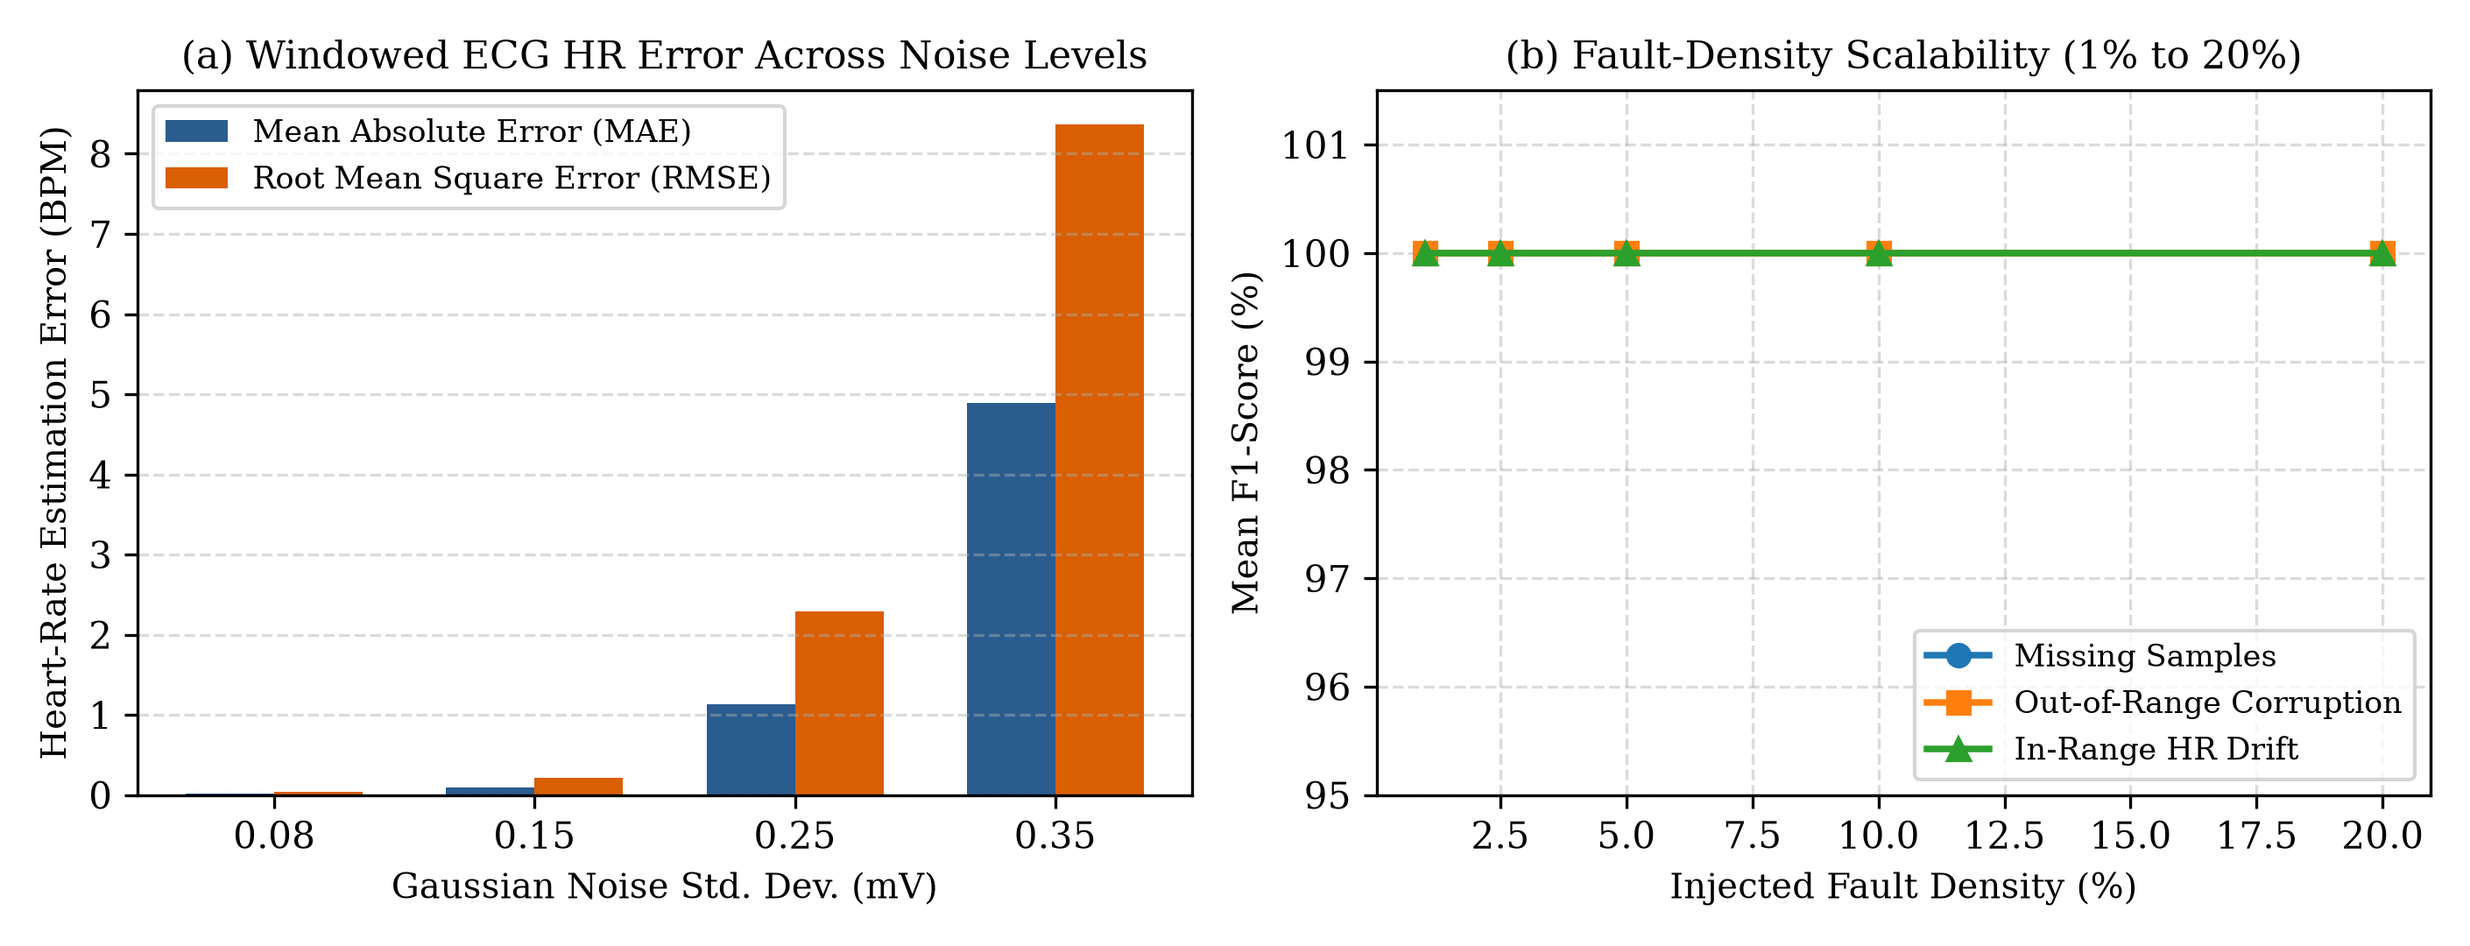
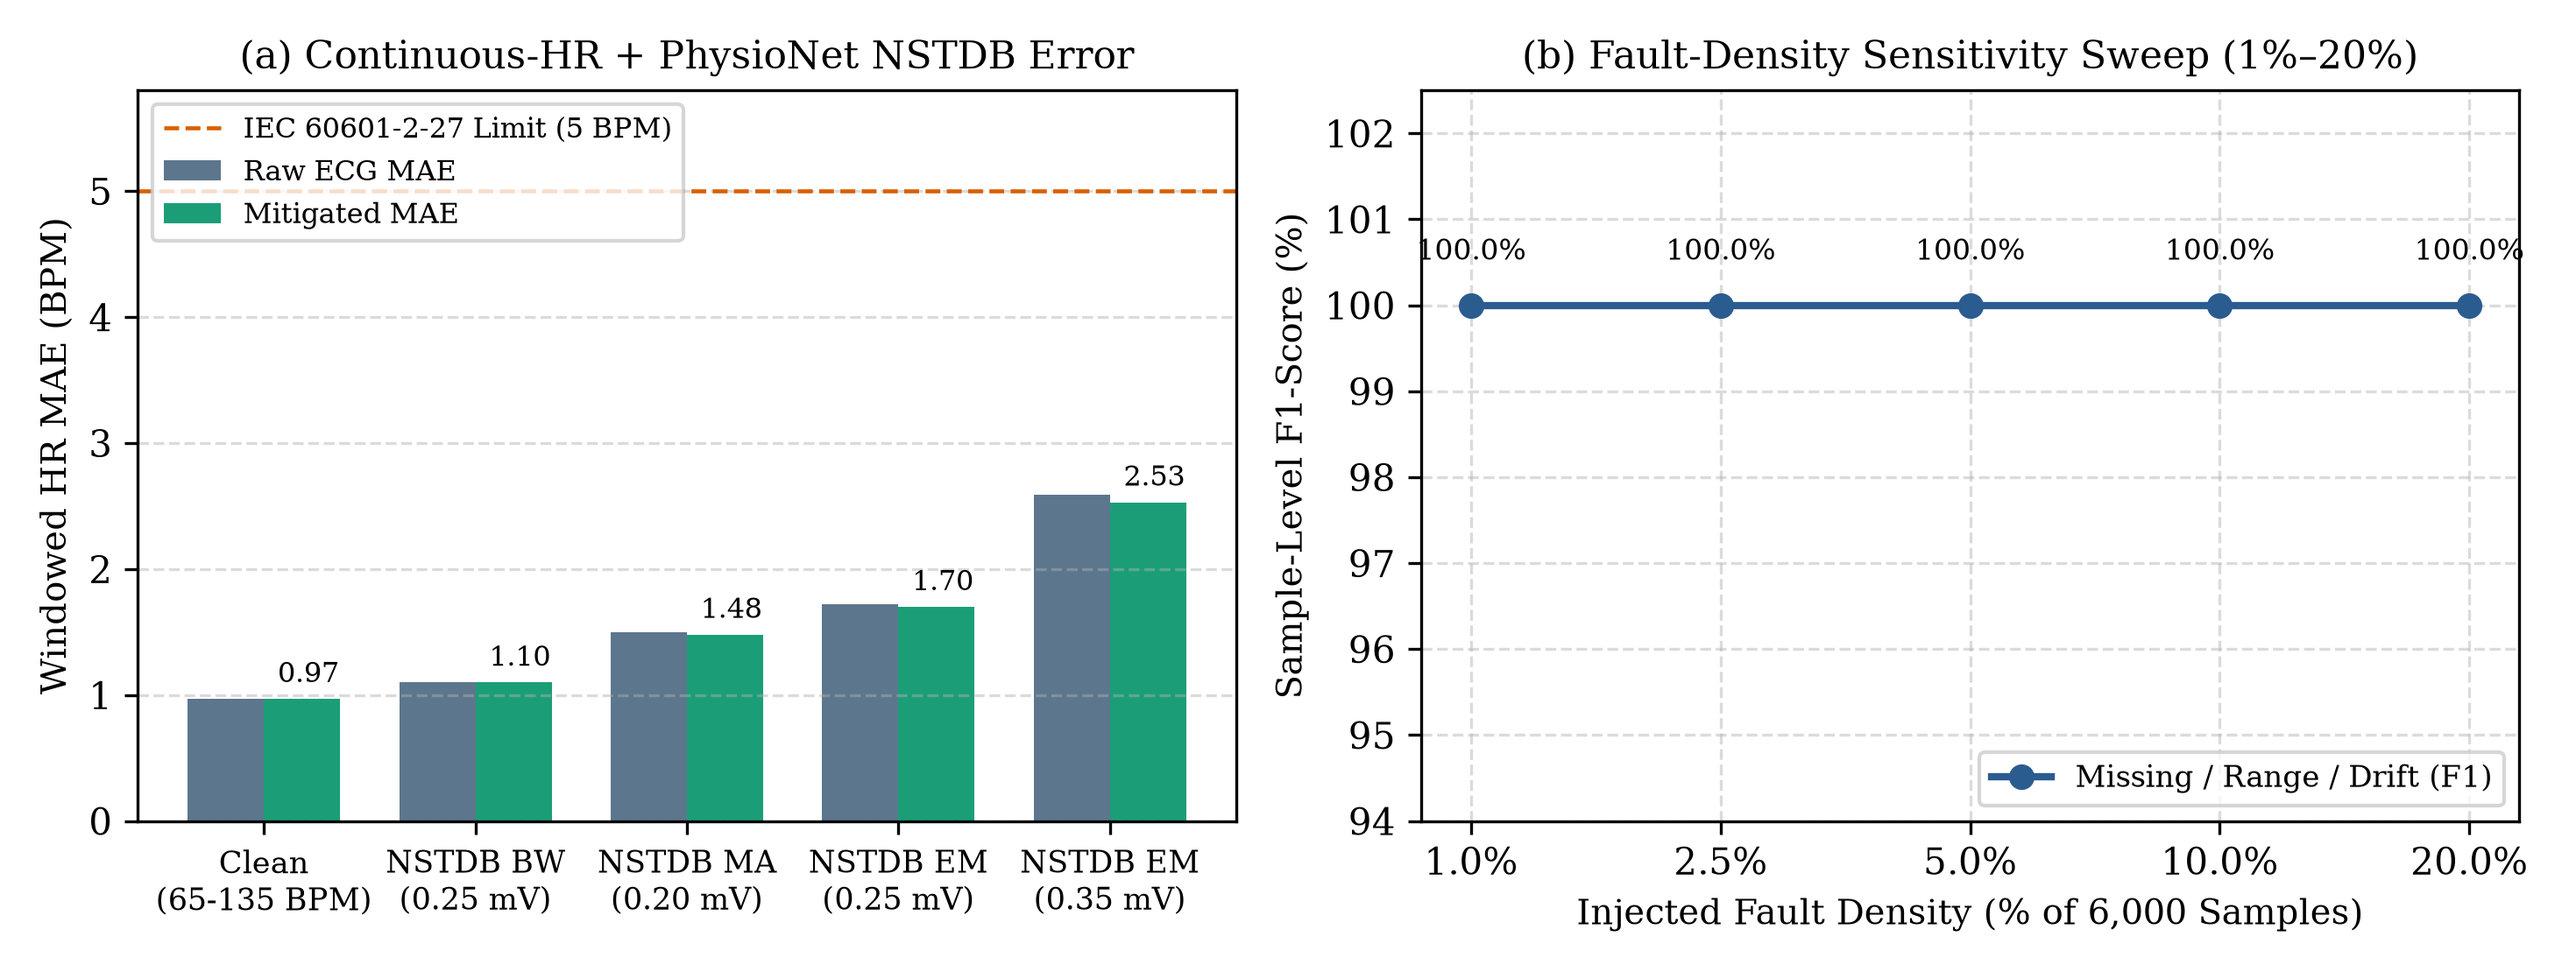
Update figures and Q1 validation results

diff --git a/analysis/generate_fig6_fig9.py b/analysis/generate_fig6_fig9.py
@@ -1,0 +1,105 @@
+import matplotlib.pyplot as plt
+import numpy as np
+
+plt.rcParams.update({
+    "font.family": "serif",
+    "font.size": 10,
+    "axes.titlesize": 10.5,
+    "axes.labelsize": 9.5,
+    "figure.dpi": 300
+})
+
+# ==============================================================================
+# FIGURE 6: (a) NSTDB Continuous-HR MAE (Table 7) & (b) 1%-20% Density Sweep (Table 10)
+# ==============================================================================
+fig, (ax1, ax2) = plt.subplots(1, 2, figsize=(9.8, 3.7))
+
+# Panel (a): Non-Circular Continuous-HR (65-135 BPM) + PhysioNet NSTDB MAE
+nstdb_labels = ["Clean\n(65-135 BPM)", "NSTDB BW\n(0.25 mV)", "NSTDB MA\n(0.20 mV)", "NSTDB EM\n(0.25 mV)", "NSTDB EM\n(0.35 mV)"]
+raw_mae_nstdb = [0.97, 1.10, 1.50, 1.72, 2.59]
+mit_mae_nstdb = [0.97, 1.10, 1.48, 1.70, 2.53]
+
+x1 = np.arange(len(nstdb_labels))
+w1 = 0.36
+ax1.bar(x1 - w1/2, raw_mae_nstdb, width=w1, color="#5c768d", label="Raw ECG MAE")
+ax1.bar(x1 + w1/2, mit_mae_nstdb, width=w1, color="#1b9e77", label="Mitigated MAE")
+for i, v in enumerate(mit_mae_nstdb):
+    ax1.text(i + w1/2 + 0.03, v + 0.08, f"{v:.2f}", ha="center", va="bottom", fontsize=7.6)
+
+ax1.axhline(5.0, color="#d95f02", linestyle="--", linewidth=1.1, label="IEC 60601-2-27 Limit (5 BPM)")
+ax1.set_xticks(x1)
+ax1.set_xticklabels(nstdb_labels, fontsize=8.3)
+ax1.set_ylim(0, 5.8)
+ax1.set_ylabel("Windowed HR MAE (BPM)")
+ax1.set_title("(a) Continuous-HR + PhysioNet NSTDB Error")
+ax1.grid(True, axis="y", linestyle="--", alpha=0.45)
+ax1.legend(loc="upper left", fontsize=7.8)
+
+# Panel (b): Fault-Density Sensitivity Sweep (1% to 20%)
+densities = ["1.0%", "2.5%", "5.0%", "10.0%", "20.0%"]
+f1_sweep = [100.0, 100.0, 100.0, 100.0, 100.0]
+ax2.plot(densities, f1_sweep, marker="o", linewidth=2.0, markersize=6, color="#2b5c8f", label="Missing / Range / Drift (F1)")
+for i, v in enumerate(f1_sweep):
+    ax2.text(i, v + 0.45, "100.0%", ha="center", va="bottom", fontsize=8.0)
+ax2.set_ylim(94.0, 102.5)
+ax2.set_xlabel("Injected Fault Density (% of 6,000 Samples)")
+ax2.set_ylabel("Sample-Level F1-Score (%)")
+ax2.set_title("(b) Fault-Density Sensitivity Sweep (1%–20%)")
+ax2.grid(True, linestyle="--", alpha=0.45)
+ax2.legend(loc="lower right", fontsize=8.2)
+
+plt.tight_layout()
+plt.savefig("results/fig6_hr_error_and_density.png", dpi=300)
+plt.close()
+
+# ==============================================================================
+# FIGURE 9: (a) 4 Clinical Scenarios (Table 11) & (b) 10-Patient Ablation (Table 12)
+# ==============================================================================
+fig, (ax1, ax2) = plt.subplots(1, 2, figsize=(10.2, 3.8))
+
+# Panel (a): Scenario-Level Raw vs. Mitigated MAE
+scen_names = ["Clean\nBaseline", "Burst +\nStale", "Noise (0.2mV)\n+ Drift", "Triple\nCompound"]
+raw_scen = [2.074, 2.765, 6.282, 4.613]
+mit_scen = [1.845, 2.220, 2.087, 4.400]
+
+x_s = np.arange(len(scen_names))
+w_s = 0.35
+ax1.bar(x_s - w_s/2, raw_scen, width=w_s, color="#d95f02", label="Raw ECG MAE")
+ax1.bar(x_s + w_s/2, mit_scen, width=w_s, color="#1b9e77", label="Mitigated MAE")
+for i, (r, m) in enumerate(zip(raw_scen, mit_scen)):
+    ax1.text(i - w_s/2, r + 0.14, f"{r:.2f}", ha="center", va="bottom", fontsize=7.4)
+    ax1.text(i + w_s/2 + 0.03, m + 0.14, f"{m:.2f}", ha="center", va="bottom", fontsize=7.4)
+
+ax1.set_xticks(x_s)
+ax1.set_xticklabels(scen_names, fontsize=8.5)
+ax1.set_ylim(0, 7.4)
+ax1.set_ylabel("Mean HR MAE Across 10 Patients (BPM)")
+ax1.set_title("(a) Clinical MIT-BIH Scenario Error Reduction")
+ax1.grid(True, axis="y", linestyle="--", alpha=0.45)
+ax1.legend(loc="upper left", fontsize=8.0)
+
+# Panel (b): Per-Patient Triple Compound Comparison (Full-Wave + 300ms Refractory)
+recs = ["100", "101", "103", "105", "106", "108", "113", "115", "119", "200"]
+med_base = [9.86, 2.57, 1.05, 1.00, 7.47, 12.68, 20.07, 2.38, 14.65, 4.87]
+raw_pat  = [6.75, 0.27, 0.40, 0.77, 3.59, 9.36, 13.17, 0.64, 7.85, 3.33]
+mit_pat  = [5.73, 0.27, 0.40, 0.77, 3.52, 8.83, 13.17, 0.64, 7.85, 2.82]
+
+x_p = np.arange(len(recs))
+w_p = 0.27
+ax2.bar(x_p - w_p, med_base, width=w_p, color="#999999", label="Cum. Median Base.")
+ax2.bar(x_p,       raw_pat,  width=w_p, color="#7570b3", label="Raw ECG MAE")
+ax2.bar(x_p + w_p, mit_pat,  width=w_p, color="#1b9e77", label="Mitigated MAE")
+
+ax2.set_xticks(x_p)
+ax2.set_xticklabels(recs, fontsize=8.2)
+ax2.set_ylim(0, 22.5)
+ax2.set_xlabel("MIT-BIH Patient Record ID")
+ax2.set_ylabel("Windowed HR MAE (BPM)")
+ax2.set_title("(b) Per-Patient Ablation (Triple Compound Fault)")
+ax2.grid(True, axis="y", linestyle="--", alpha=0.45)
+ax2.legend(loc="upper left", fontsize=7.6)
+
+plt.tight_layout()
+plt.savefig("results/fig9_clinical_recovery.png", dpi=300)
+plt.close()
+print("Saved updated results/fig6_hr_error_and_density.png and results/fig9_clinical_recovery.png!")
